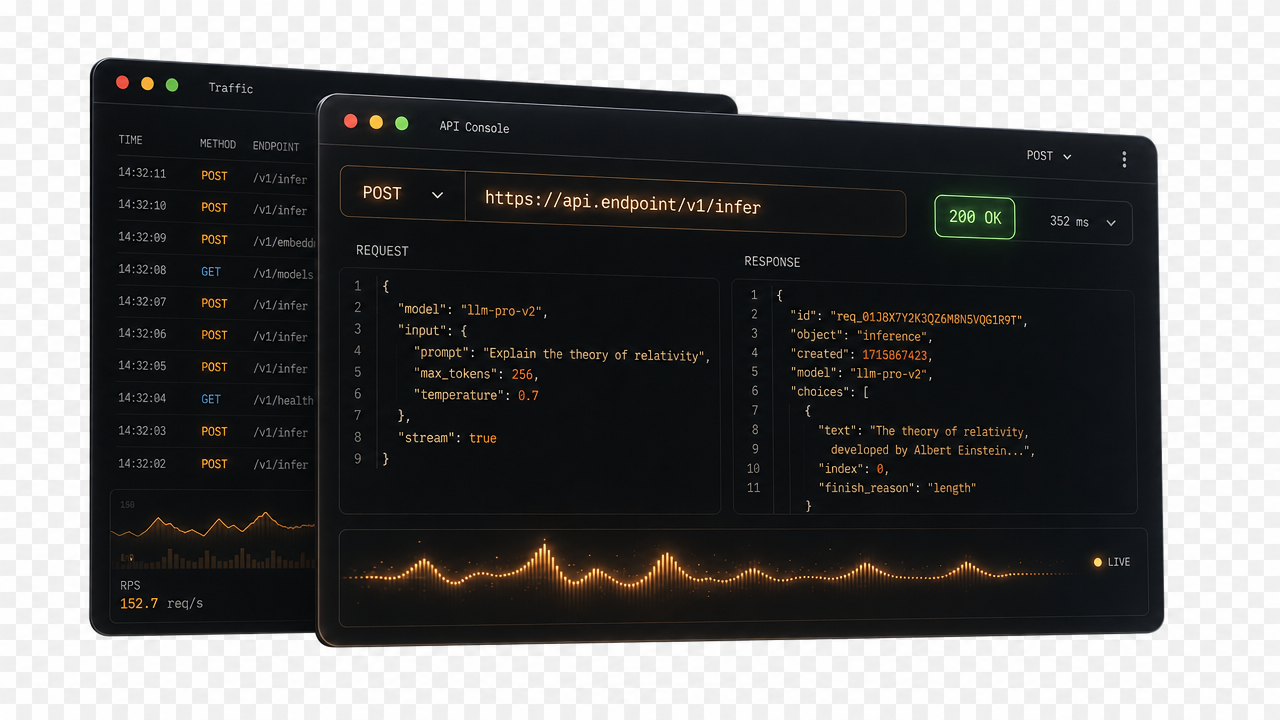
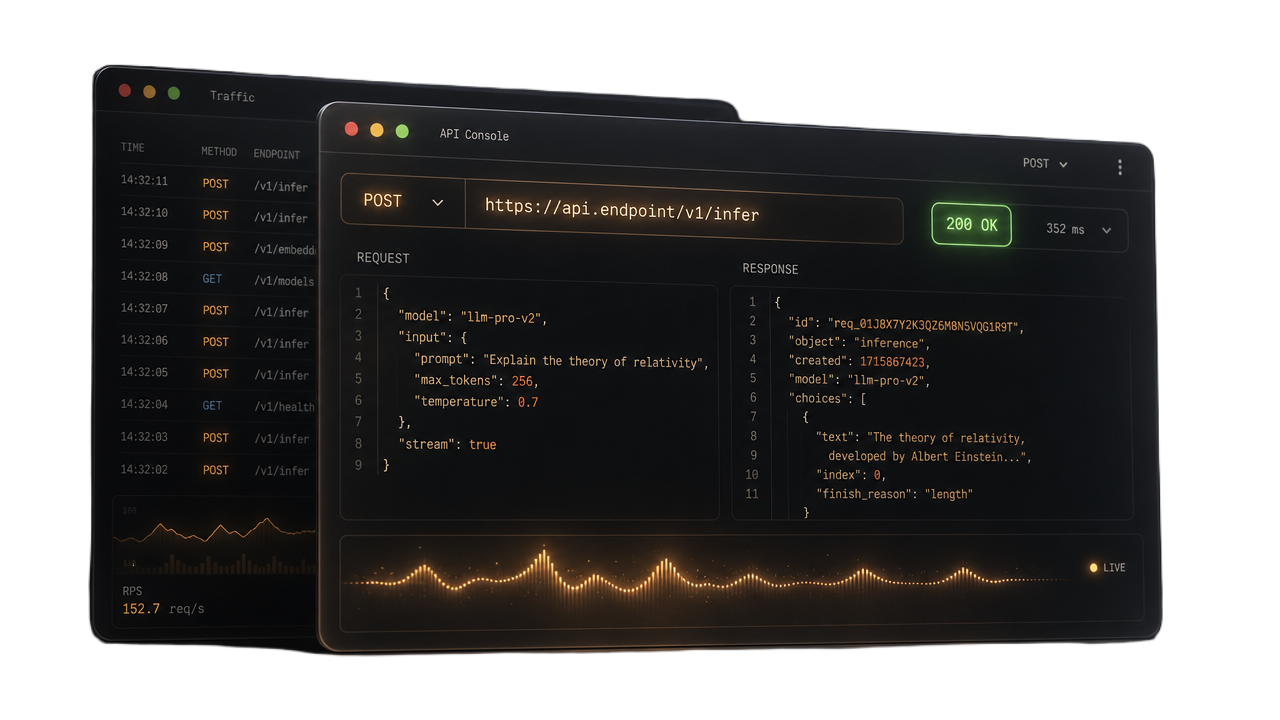
feat: apply new Edge Device Cloud, Endpoint, Shared Filesystem images

diff --git a/components/products-section.tsx b/components/products-section.tsx
@@ -53,9 +53,9 @@ const cloudServiceIcons = [
 
 const cloudServiceMedia = [
   '/images/feature-oneclick.png',
-  '/images/optimize2.png',
+  '/images/endpoint.png',
   '/images/feature-storage.png',
-  '/images/optimize.png',
+  '/images/shared-filesystem.png',
   '/images/object-storage.png',
 ] as const;
 
